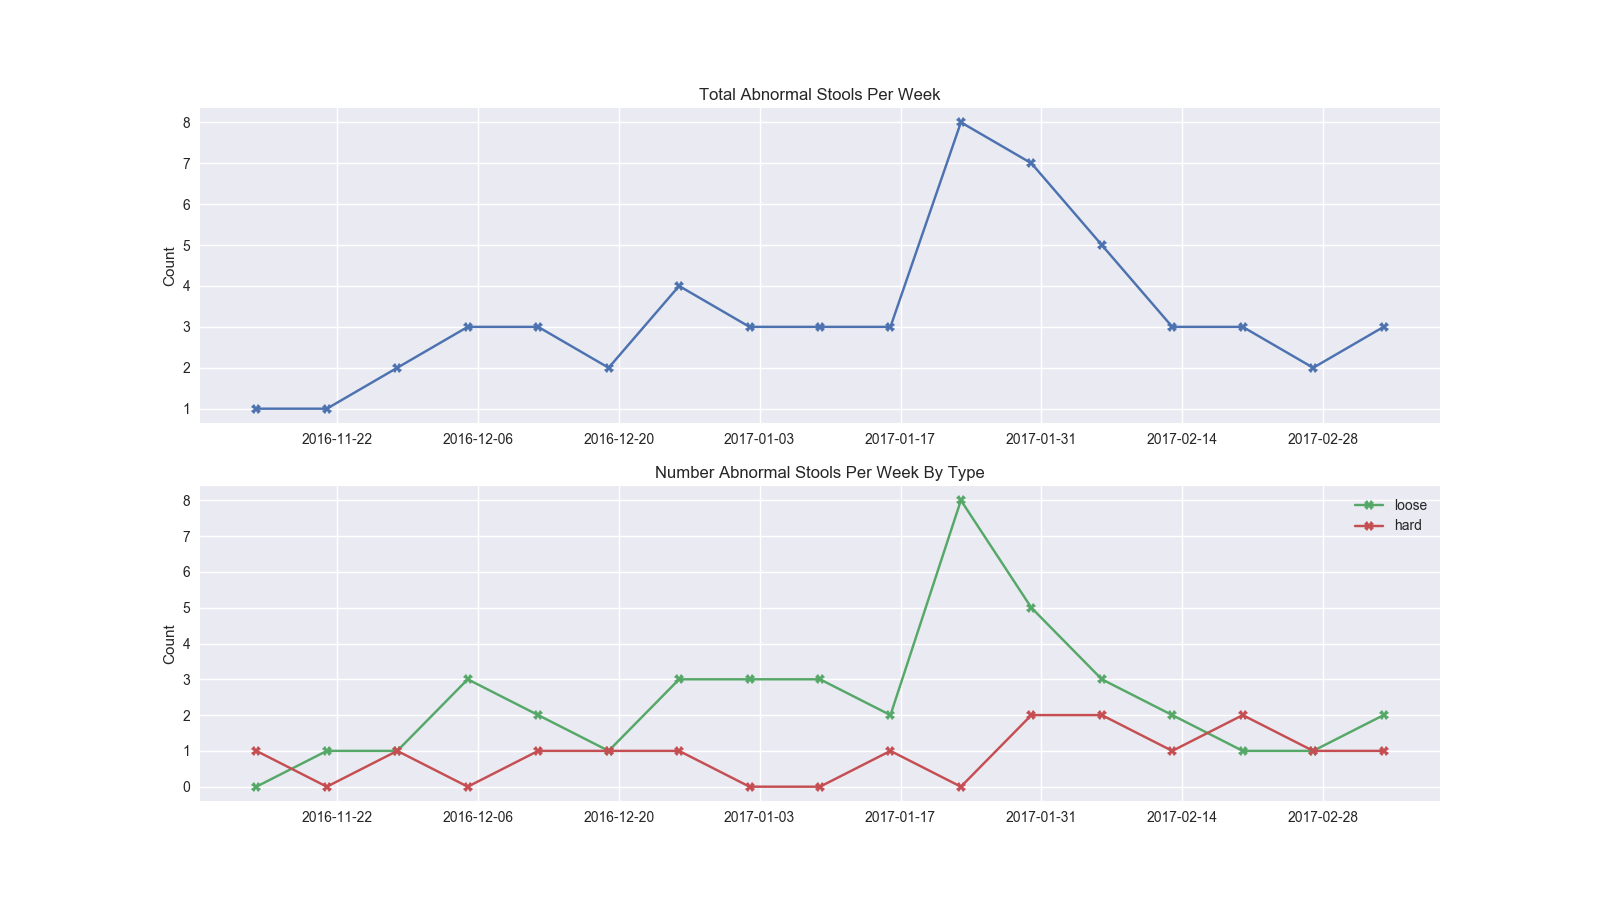
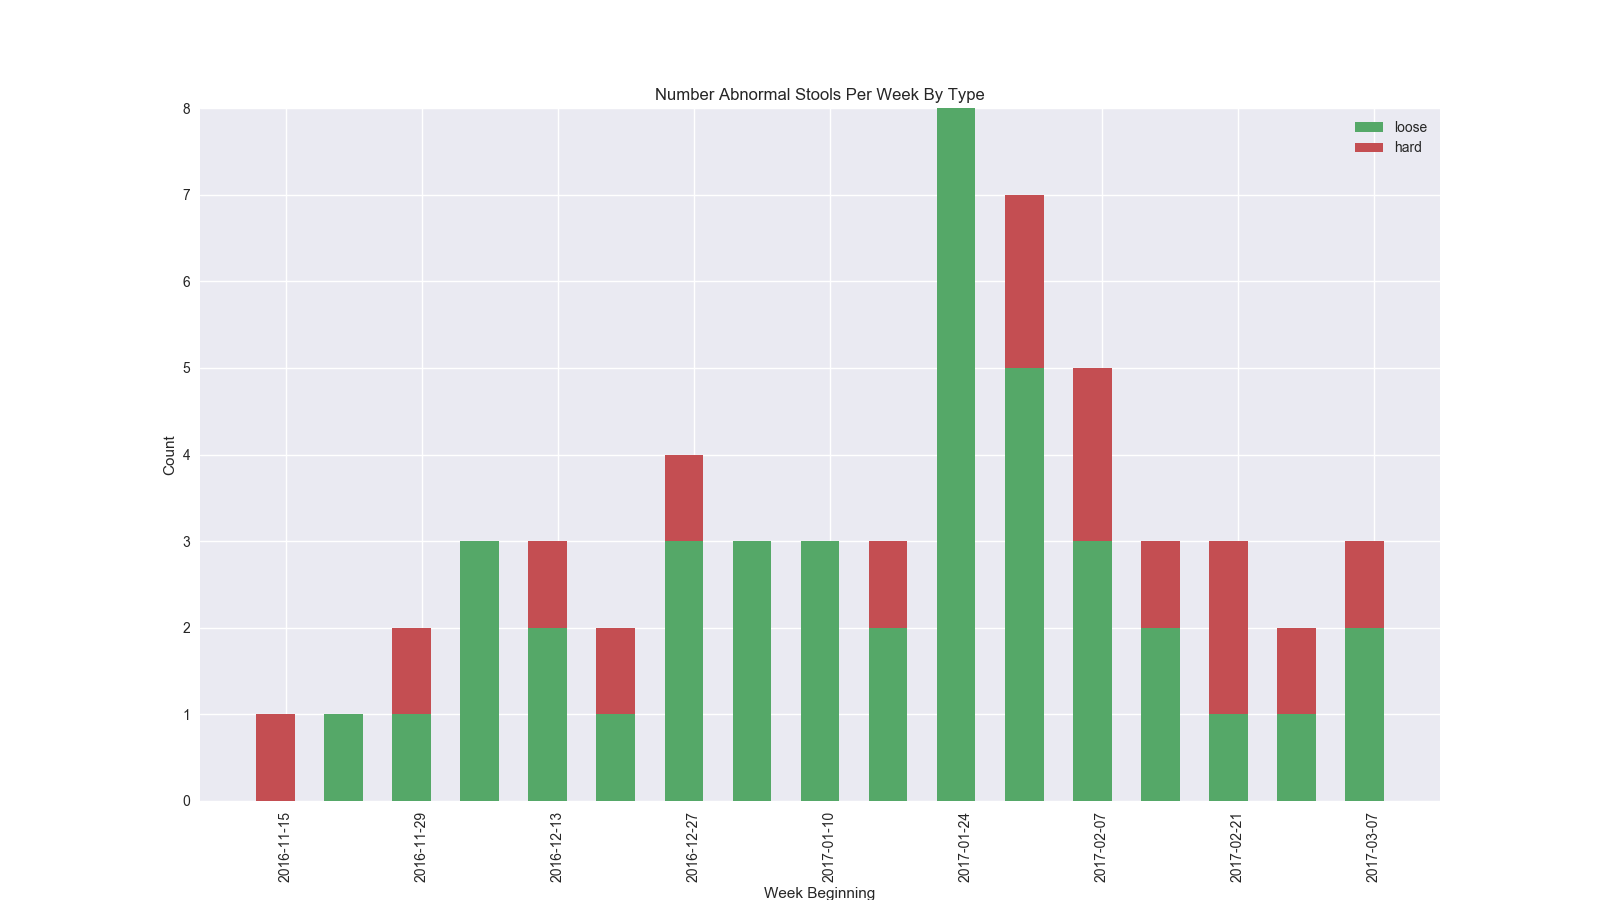
box and whisker plot updates

diff --git a/health_analysis.py b/health_analysis.py
@@ -58,6 +58,22 @@ plt.close('all')
 df_bm['loose'] = df_bm['type'] >= 6
 df_bm['hard'] = df_bm['type'] <=2
 
+# Week year
+#df_bm['year_week'] = df_bm.index.year*52 + df_bm.index.week
+for index, row in df_bm.iterrows():
+    dt = datetime.date(index.year, index.month, index.day)
+    df_bm.loc[index, 'year_week'] = dt - datetime.timedelta(days=dt.weekday()) 
+
+p = df_bm.boxplot('type', 'year_week', whis=np.inf, showfliers=True)
+plt.xticks(rotation='vertical')
+plt.suptitle('Bristol Stool Scale by Week')
+plt.title('')
+plt.xlabel('Week Beginning')
+fig = matplotlib.pyplot.gcf()
+fig.set_size_inches(16,9)
+plt.ylabel('Bristol Stool Scale')
+plt.savefig('bss_box_whisker.png', bbox='tight')
+
 # Determine number of hard / loose per week
 tmp = df_bm['type'].resample('W-MON').mean()
 tmp2 = df_bm[['loose','hard']].resample('W-MON').sum()
@@ -79,16 +95,13 @@ plt.savefig('bss_mean.png', bbox='tight')
 plt.figure()
 fig = matplotlib.pyplot.gcf()
 fig.set_size_inches(16,9)
-plt.subplot(2,1,1)
-plt.plot(tmp2.index, tmp2['total'], color='C0', marker='X')
-plt.title('Total Abnormal Stools Per Week')
-plt.ylabel('Count')
-plt.subplot(2,1,2)
 plt.title('Number Abnormal Stools Per Week By Type')
-plt.plot(tmp2.index, tmp2['loose'], color='C1', marker='X')
-plt.plot(tmp2.index, tmp2['hard'], color='C2', marker='X')
+plt.bar(tmp2.index, tmp2['loose'], color='C1', width=4)
+plt.bar(tmp2.index, tmp2['hard'], color='C2', width=4, bottom=tmp2['loose'])
 plt.ylabel('Count')
+plt.xlabel('Week Beginning')
 plt.legend(['loose','hard'])
+plt.xticks(rotation='vertical')
 plt.savefig('abnormal.png',  bbox='tight')
 
 
